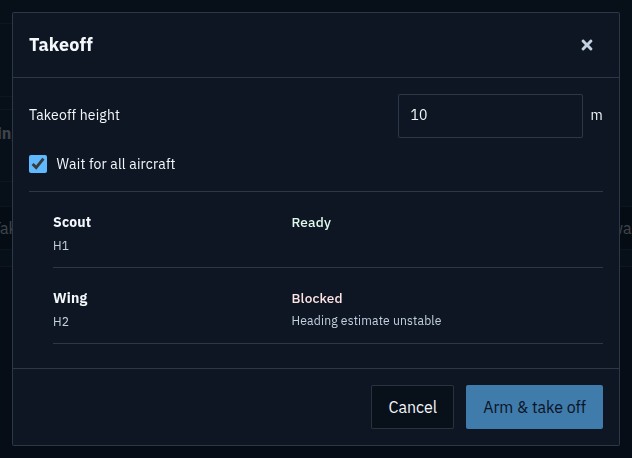
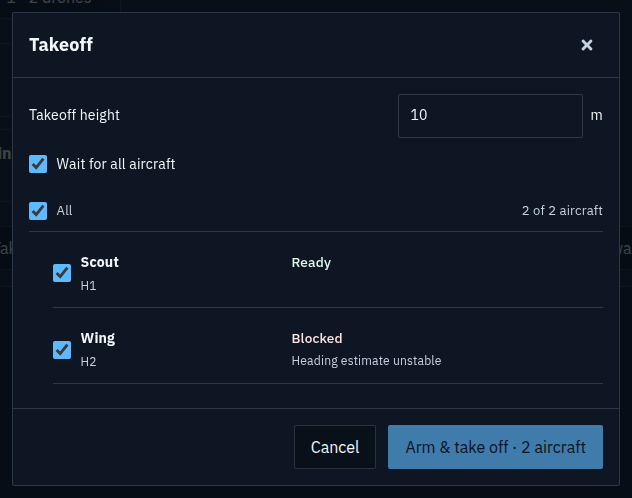
Refresh the combined Takeoff operator guide and selection acceptance evidence

diff --git a/docs/plans/2026-10-30-coordinated-takeoff-checkpoint.md b/docs/plans/2026-10-30-coordinated-takeoff-checkpoint.md
@@ -3,10 +3,17 @@
 ## Accepted operator behavior
 
 One reusable Takeoff dialog for Dashboard, Smart Swarm and aircraft actions:
-height, frozen aircraft roster, native readiness and **Wait for all aircraft**
+height, page-scoped roster, native readiness and **Wait for all aircraft**
 (default on for a group). One **Arm & take off** confirmation. Closing is not
 cancellation. Abort decisions remain **Cancelling** until recovery evidence is
 received; unconfirmed recovery never becomes a green success.
+
+The initiating aircraft are preselected. Operators can explicitly exclude and
+reinclude rows before confirmation; excluded rows remain visible and muted.
+Select-all/none and the confirmation count make the scope visible. Selection
+locks on confirmation, including uncertain receipt recovery; single-aircraft
+subsets use native independent Takeoff. Saved formation and complete-cluster
+Start Swarm selection are not modified.
 
 Group execution requires every participant's fresh armed/ground proof before a
 shared release. Independent mode is explicit. PX4 checks, flight tuning and live
@@ -31,12 +38,14 @@ partial launch; this is not physically atomic takeoff.
 
 ## Evidence and remaining acceptance
 
-All builds/tests run on the remote validation host. Production and real aircraft
-have not received this feature. The previous deployed RC2 remains unchanged.
+All builds/tests run on the remote validation host. Initial validation was
+isolated from production and real aircraft. The server/UI source candidate was
+later deployed for inspection after both aircraft were confirmed powered off;
+this does not establish installed-board revision or flight clearance.
 
 The final integrated backend run passed **570 tests**; the frontend passed
-**86 tests in 9 suites**. The strict production frontend build passed. The
-browser-only probe passed 16 simulated states across dark/light desktop/mobile,
+**94 tests in 10 suites** after the selection follow-up. The strict production
+frontend build passed. The browser-only probe passed 24 simulated states across dark/light desktop/mobile,
 with zero external API writes. Logs use `/tmp/mds-coordinated-*`.
 
 Real two-node PX4 SITL caught issues not represented by unit mocks:
@@ -102,8 +111,16 @@ private data and integrate only shared files into the private deployment.
 Aircraft revision/readiness verification remains required online;
 source or UI acceptance is not hardware flight clearance or a rebuilt image.
 
-Production rollout remains separately gated on confirmation that no real flight
-or test is running. Required before field clearance: finish the repeat-sortie
+UI-only follow-up validation covers default scope, explicit exclusion,
+select-all/none, blocked reasons at zero group lease, frozen selection and exact
+subset receipt recovery. The combined operator guide uses unmodified captured
+UI examples; all command responses in browser evidence are simulated.
+Shared Takeoff and Jog dialog styles load once in the app shell, avoiding
+route-dependent stylesheet ordering. The combined guide is linked from the
+[operator steps](../guides/coordinated-takeoff.md).
+
+Any rollout that restarts flight services remains gated on confirmation that no
+real flight or test is running. Required before field clearance: finish the repeat-sortie
 probe investigation, verify the installed node revisions/capabilities, and
 validate the relevant remaining fault-injection cases. A packaged/pinned runtime
 release additionally requires a rebuilt SITL image once build headroom is

diff --git a/docs/guides/coordinated-takeoff.md b/docs/guides/coordinated-takeoff.md
@@ -29,13 +29,12 @@ after closing and reopening the same review.
 
 The captures below use simulated browser responses, not real aircraft telemetry.
 
-![Takeoff height, selected aircraft and coordination option](../assets/coordinated-takeoff/01-ready.png)
+![Takeoff review, selection, blocked readiness, arming and confirmed cancellation](../assets/coordinated-takeoff/takeoff-workflow-combined.png)
 
-![A blocked aircraft and its actionable reason](../assets/coordinated-takeoff/02-blocked.png)
-
-![Arming progress with separate cancellation and close controls](../assets/coordinated-takeoff/03-arming.png)
-
-![Cancellation confirmed only after both aircraft report disarmed](../assets/coordinated-takeoff/04-cancelled.png)
+Full-size views: [Ready](../assets/coordinated-takeoff/01-ready.png),
+[Blocked](../assets/coordinated-takeoff/02-blocked.png),
+[Arming](../assets/coordinated-takeoff/03-arming.png),
+[Cancelled](../assets/coordinated-takeoff/04-cancelled.png).
 
 If arming fails, the group receives no takeoff release. The system cancels the
 attempt and normally disarms aircraft it armed when fresh telemetry confirms
